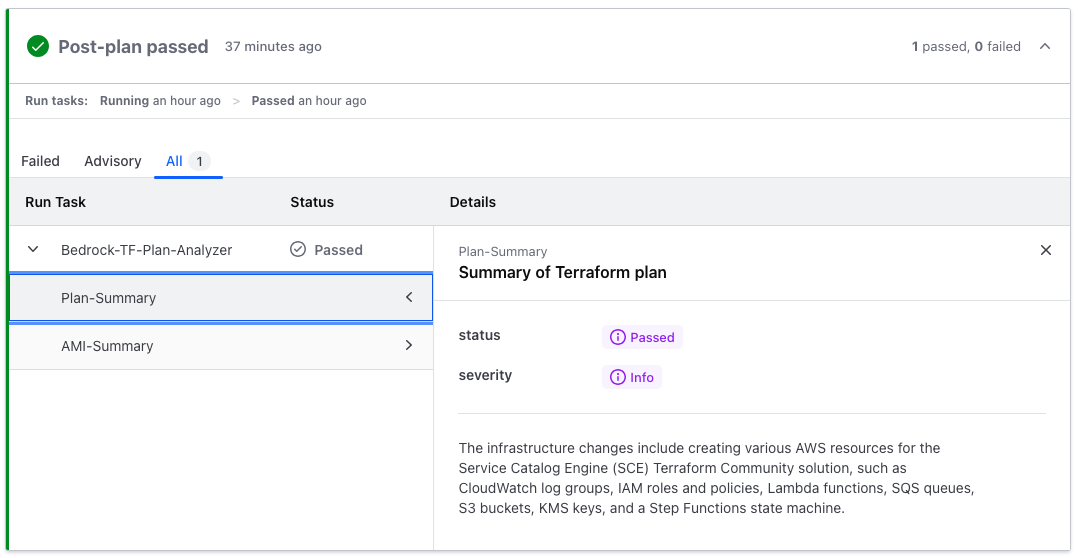
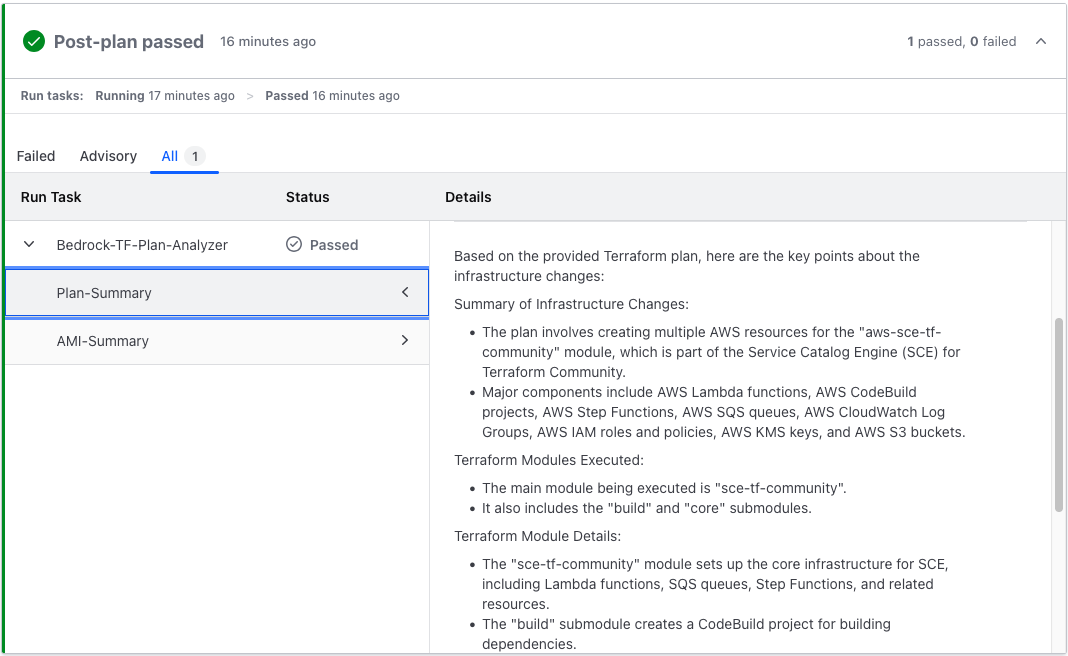
V0.0.4 (#11)
* better parser for the output
* refine prompt for the plan summary

Changed region(s): [[0.0, 0.0, 1.0, 1.0], [0.4017, 0.2742, 0.4635, 0.3047]]

diff --git a/lambda/runtask_fulfillment/ai.py b/lambda/runtask_fulfillment/ai.py
@@ -8,6 +8,7 @@ import botocore
 from runtask_utils import generate_runtask_result
 from tools.get_ami_releases import GetECSAmisReleases
 from utils import logger, stream_messages, tool_config
+import xml.etree.ElementTree as ET
 
 # Initialize model_id and region
 model_id = os.environ.get("BEDROCK_LLM_MODEL")
@@ -180,7 +181,14 @@ def eval(tf_plan_json):
         # Add response to message history
         messages.append(response)
 
-    result = response["content"][0]["text"]
+    # Try to parse output as XML and look for the <output> tag
+    try:
+        root = ET.fromstring(response["content"][0]["text"])
+        result = root.find("result").text
+        logger.info("Parsed : {}".format(result))
+    except Exception as e:
+        result = response["content"][0]["text"]
+        logger.info("Non Parsed : {}".format(result))
 
     #####################################################################
     ######### Third, generate short summary                     #########
@@ -188,7 +196,12 @@ def eval(tf_plan_json):
 
     logger.info("##### Generating short summary #####")
     prompt = f"""
-        Can you provide a short summary with maximum of 150 characters of the infrastructure changes?
+        List the resources that will be created, modified or deleted in the following terraform plan using the following rules:
+        - Provide summary of the infrastructure changes
+        - Highlight major components of the changes such as what Terraform modules is executed
+        - Summarize what each Terraform modules does
+        - Highlight any resources that being replaced or deleted
+        - Highlight any outputs if available
 
         <terraform_plan>
         {tf_plan_json["resource_changes"]}
@@ -214,7 +227,7 @@ def eval(tf_plan_json):
 
     guardrail_status, guardrail_response = guardrail_inspection(str(description))
     if guardrail_status:
-        results.append(generate_runtask_result(outcome_id="Plan-Summary", description="Summary of Terraform plan", result=description[:700]))
+        results.append(generate_runtask_result(outcome_id="Plan-Summary", description="Summary of Terraform plan", result=description[:9000])) # body max limit of 10,000 chars
     else:
         results.append(generate_runtask_result(outcome_id="Plan-Summary", description="Summary of Terraform plan", result="Output omitted due to : {}".format(guardrail_response)))
         description = "Bedrock guardrail triggered : {}".format(guardrail_response)
@@ -225,7 +238,8 @@ def eval(tf_plan_json):
     else:
         results.append(generate_runtask_result(outcome_id="AMI-Summary", description="Summary of AMI changes", result="Output omitted due to : {}".format(guardrail_response)))
 
-    return description, results
+    runtask_high_level ="Terraform plan analyzer using Amazon Bedrock, expand the findings below to learn more. Click `view more details` to get the detailed logs"
+    return runtask_high_level, results
 
 def guardrail_inspection(input_text, input_mode = 'OUTPUT'):
 

diff --git a/.header.md b/.header.md
@@ -2,42 +2,64 @@
 
 ## Overview
 
-Integrate Amazon Bedrock to your HashiCorp Cloud Platform Terraform (Terraform Cloud) Run Tasks for:
+Enhance your HashiCorp Cloud Platform Terraform (Terraform Cloud) workflows with AI-powered analysis using Amazon Bedrock. This module integrates seamlessly as a Run Task to provide:
 
-* Analyzing Terraform plan and generate short-summary
+* Intelligent Terraform plan analysis with concise, human-friendly summaries
+* Advanced function calling capabilities for extended analysis (e.g., AMI evaluation)
+* Responsible AI implementation with customizable guardrails
 
-* Function calling for other API-based analysis (e.g AMI analysis)
+### Key Features
 
-### Terraform plan summary
+1. **AI-Powered Plan Summaries**
+   * Generate clear, natural language summaries of Terraform plan outputs
+   * Quickly understand the impact of infrastructure changes
+   ![Example](./images/example.png)
 
-Summarize Terraform plan output in human friendly natural language.
-![Example](./images/example.png)
+2. **Extensible Analysis with Function Calling**
+   * Leverage AI to perform additional analyses, such as AMI evaluation
+   * Easily extend to other API-based tools and services
+   ![Example2](./images/example2.png)
 
-### Function calling (AMI analysis)
+3. **Responsible AI Integration**
+   * Implement Amazon Bedrock guardrails tailored to your organization's policies
+   * Ensure ethical and compliant AI usage in your infrastructure workflows
+   ![Example3](./images/example3.png)
 
-Use function calling to execute other tools, such as analyzing AMI data.
-![Example2](./images/example2.png)
+4. **Secure Architecture**
+   * Designed for deployment in a dedicated AWS account
+   * Optional AWS WAF integration for enhanced endpoint protection
+   * Adherence to AWS security best practices
 
-### Responsible AI
+5. **Seamless Terraform Cloud Integration**
+   * Operates as a native Run Task within your Terraform Cloud workflow
+   * Provides insights without disrupting existing processes
 
-Implement safeguards using Amazon Bedrock guardrails customized to your organization requirements and responsible AI policies
-![Example3](./images/example3.png)
+6. **Flexible and Customizable**
+   * Adapt the module to fit your specific organizational needs
+   * Easily configure and extend guardrails and analysis capabilities
 
 ## Architecture
 
 ![Diagram](./images/arch.png)
 
-This module must be deployed in AWS account with access to Amazon Bedrock model. We recommend you to use hub-spoke model, by deploying this module in one dedicated account.
-
-Please refer to the [best-practice](#best-practice) section below for more details.
+This module leverages a hub-spoke model, designed for deployment in a dedicated AWS account with Amazon Bedrock access. It utilizes AWS Lambda, CloudFront, and other AWS services to provide a scalable and secure solution.
 
 ## Prerequisites
 
-To use this module you need have the following:
+To implement this module, you'll need:
 
-1. AWS account and credentials
-1. Amazon Bedrock model access (default model is `Claude 3 Sonnet`)
-1. HCP Terraform account
+1. An AWS account with appropriate credentials
+2. Access to Amazon Bedrock (default model: Claude 3 Sonnet)
+3. A HashiCorp Cloud Platform (HCP) Terraform account
+
+## Getting Started
+
+For detailed setup instructions and best practices, please refer to the sections below:
+
+* [Usage](#usage)
+* [Best Practices](#best-practice)
+
+Enhance your Terraform workflows with AI-powered insights while maintaining security and responsible AI practices.
 
 ## Usage
 

diff --git a/README.md b/README.md
@@ -3,42 +3,64 @@
 
 ## Overview
 
-Integrate Amazon Bedrock to your HashiCorp Cloud Platform Terraform (Terraform Cloud) Run Tasks for:
+Enhance your HashiCorp Cloud Platform Terraform (Terraform Cloud) workflows with AI-powered analysis using Amazon Bedrock. This module integrates seamlessly as a Run Task to provide:
 
-* Analyzing Terraform plan and generate short-summary
+* Intelligent Terraform plan analysis with concise, human-friendly summaries
+* Advanced function calling capabilities for extended analysis (e.g., AMI evaluation)
+* Responsible AI implementation with customizable guardrails
 
-* Function calling for other API-based analysis (e.g AMI analysis)
+### Key Features
 
-### Terraform plan summary
+1. **AI-Powered Plan Summaries**
+   * Generate clear, natural language summaries of Terraform plan outputs
+   * Quickly understand the impact of infrastructure changes
+   ![Example](./images/example.png)
 
-Summarize Terraform plan output in human friendly natural language.
-![Example](./images/example.png)
+2. **Extensible Analysis with Function Calling**
+   * Leverage AI to perform additional analyses, such as AMI evaluation
+   * Easily extend to other API-based tools and services
+   ![Example2](./images/example2.png)
 
-### Function calling (AMI analysis)
+3. **Responsible AI Integration**
+   * Implement Amazon Bedrock guardrails tailored to your organization's policies
+   * Ensure ethical and compliant AI usage in your infrastructure workflows
+   ![Example3](./images/example3.png)
 
-Use function calling to execute other tools, such as analyzing AMI data.
-![Example2](./images/example2.png)
+4. **Secure Architecture**
+   * Designed for deployment in a dedicated AWS account
+   * Optional AWS WAF integration for enhanced endpoint protection
+   * Adherence to AWS security best practices
 
-### Responsible AI
+5. **Seamless Terraform Cloud Integration**
+   * Operates as a native Run Task within your Terraform Cloud workflow
+   * Provides insights without disrupting existing processes
 
-Implement safeguards using Amazon Bedrock guardrails customized to your organization requirements and responsible AI policies
-![Example3](./images/example3.png)
+6. **Flexible and Customizable**
+   * Adapt the module to fit your specific organizational needs
+   * Easily configure and extend guardrails and analysis capabilities
 
 ## Architecture
 
 ![Diagram](./images/arch.png)
 
-This module must be deployed in AWS account with access to Amazon Bedrock model. We recommend you to use hub-spoke model, by deploying this module in one dedicated account.
-
-Please refer to the [best-practice](#best-practice) section below for more details.
+This module leverages a hub-spoke model, designed for deployment in a dedicated AWS account with Amazon Bedrock access. It utilizes AWS Lambda, CloudFront, and other AWS services to provide a scalable and secure solution.
 
 ## Prerequisites
 
-To use this module you need have the following:
+To implement this module, you'll need:
 
-1. AWS account and credentials
-1. Amazon Bedrock model access (default model is `Claude 3 Sonnet`)
-1. HCP Terraform account
+1. An AWS account with appropriate credentials
+2. Access to Amazon Bedrock (default model: Claude 3 Sonnet)
+3. A HashiCorp Cloud Platform (HCP) Terraform account
+
+## Getting Started
+
+For detailed setup instructions and best practices, please refer to the sections below:
+
+* [Usage](#usage)
+* [Best Practices](#best-practice)
+
+Enhance your Terraform workflows with AI-powered insights while maintaining security and responsible AI practices.
 
 ## Usage
 
